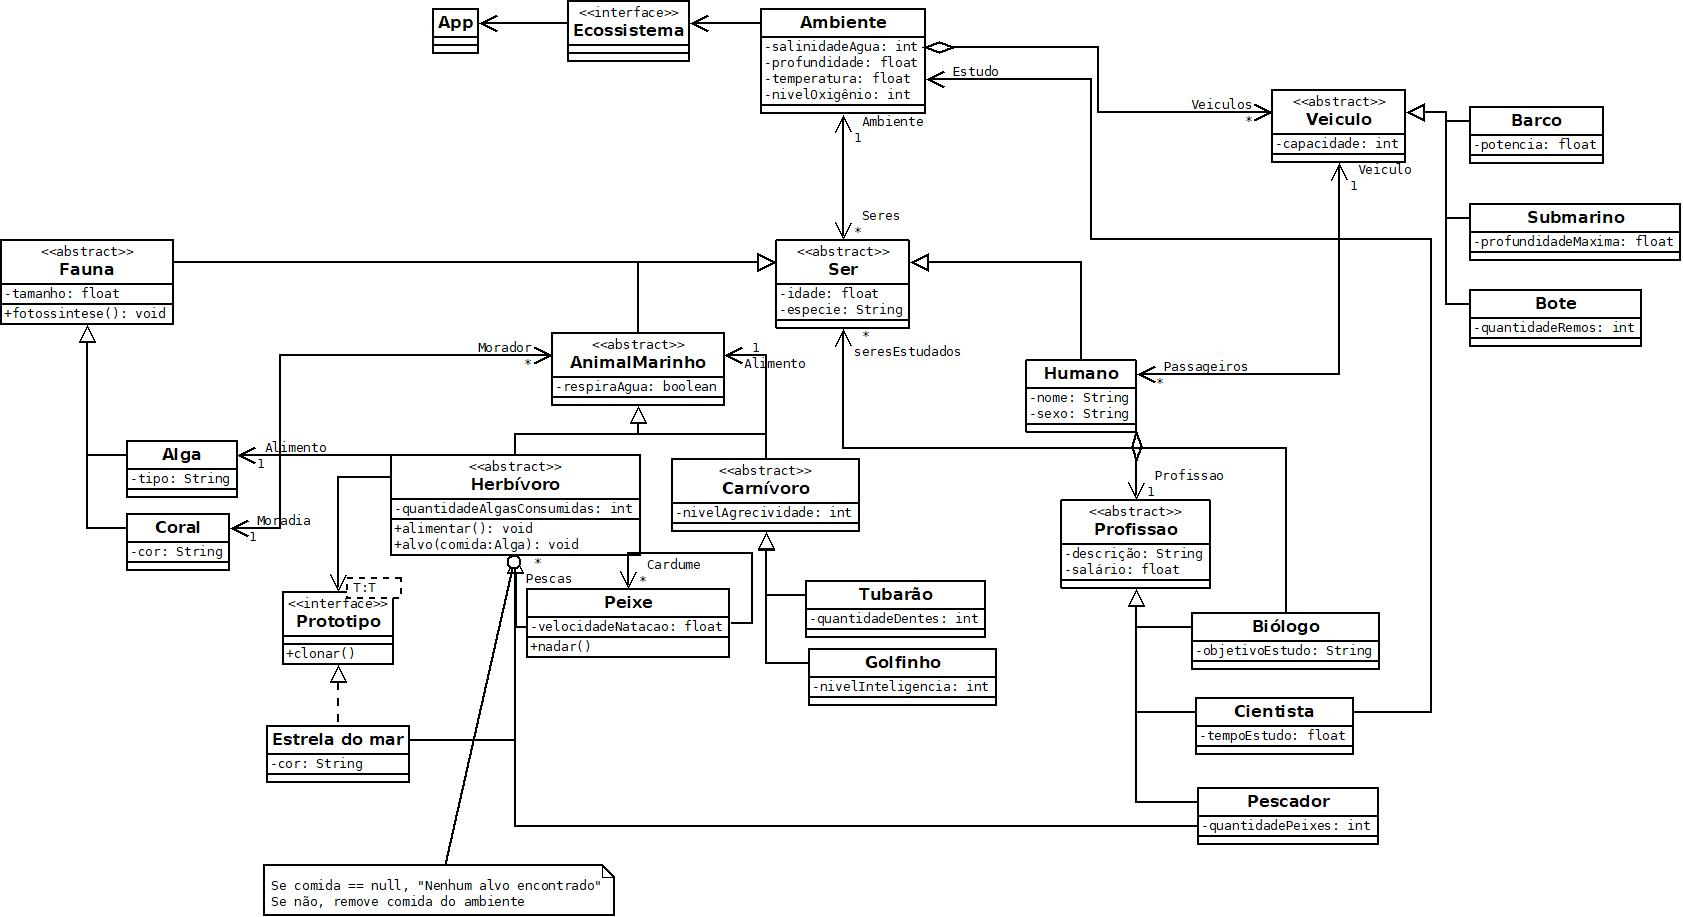
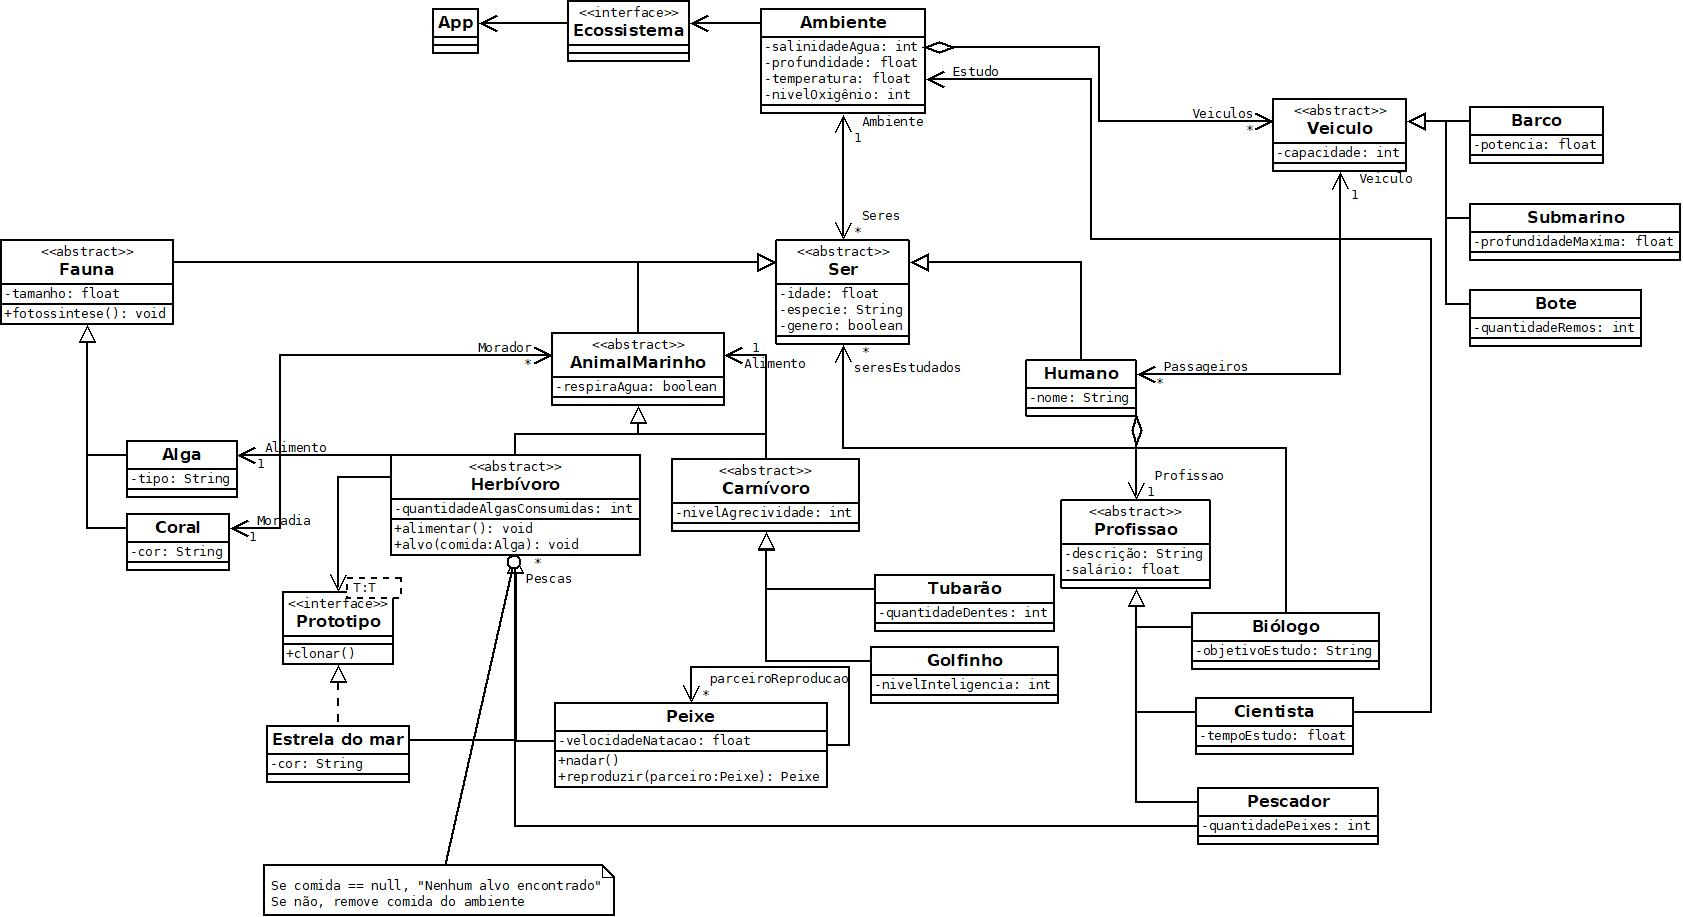
modificado Fish, Organism e Humam

diff --git a/src/main/java/br/edu/unifei/ecot12/marinelife/Fish.java b/src/main/java/br/edu/unifei/ecot12/marinelife/Fish.java
@@ -1,11 +1,20 @@
 package br.edu.unifei.ecot12.marinelife;
 
-import java.util.ArrayList;
-import java.util.List;
-
 public class Fish extends Herbivore{
     private float swimmingSpeed;
-    private List<Fish> school = new ArrayList<Fish>();
+    private Fish breedingPartner;
+
+    public Fish breed(Fish breedingPartner){
+        if(breedingPartner.isGender() != this.isGender()){
+            getEnvironment().setOxygenLevel(getEnvironment().getOxygenLevel() - 0.05);
+            System.out.println("THE BREED WAS A SUCCESS");
+            return new Fish();
+        }
+        else{
+            System.out.println("THE BREED FAILED");
+            return null;
+        }
+    }
 
     public void swim(){
         this.getEnvironment().setOxygenLevel(this.getEnvironment().getOxygenLevel()-0.005); //decreases the oxygen level of the environment
@@ -19,12 +28,12 @@ public class Fish extends Herbivore{
         this.swimmingSpeed = swimmingSpeed;
     }
 
-    public List<Fish> getSchool() {
-        return school;
+    public Fish getBreedingPartner() {
+        return breedingPartner;
     }
 
-    public void setSchool(List<Fish> school) {
-        this.school = school;
+    public void setBreedingPartner(Fish breedingPartner) {
+        this.breedingPartner = breedingPartner;
     }
-    
+
 }

diff --git a/src/main/java/br/edu/unifei/ecot12/marinelife/Vehicle.java b/src/main/java/br/edu/unifei/ecot12/marinelife/Vehicle.java
@@ -1,13 +1,25 @@
-package br.edu.unifei.ecot12.vidamarinha;
+package br.edu.unifei.ecot12.marinelife;
 
-public abstract class Veiculo{
-    private int capacidade;
+import java.util.ArrayList;
+import java.util.List;
 
-    public int getCapacidade() {
-        return capacidade;
+public abstract class Vehicle {
+    private int capacity;
+    private List<Human> passengers = new ArrayList<>();
+
+    public List<Human> getPassengers() {
+        return passengers;
     }
 
-    public void setCapacidade(int capacidade) {
-        this.capacidade = capacidade;
+    public void setPassengers(List<Human> passengers) {
+        this.passengers = passengers;
+    }
+
+    public int getCapacity() {
+        return capacity;
+    }
+
+    public void setCapacity(int capacity) {
+        this.capacity = capacity;
     }
 }

diff --git a/src/main/java/br/edu/unifei/ecot12/marinelife/Organism.java b/src/main/java/br/edu/unifei/ecot12/marinelife/Organism.java
@@ -3,6 +3,14 @@ package br.edu.unifei.ecot12.marinelife;
 public abstract class Organism {
     private float idade;
     private String especie;
+    private Environment environment;
+    private boolean gender; //gender == true, male. gender == false, female
+    public boolean isGender() {
+        return gender;
+    }
+    public void setGender(boolean gender) {
+        this.gender = gender;
+    }
 
     public float getIdade() {
         return idade;
@@ -15,5 +23,11 @@ public abstract class Organism {
     }
     public void setEspecie(String especie) {
         this.especie = especie;
+    }
+    public Environment getEnvironment() {
+        return environment;
+    }
+    public void setEnvironment(Environment environment) {
+        this.environment = environment;
     }
 }

diff --git a/src/main/java/br/edu/unifei/ecot12/marinelife/Human.java b/src/main/java/br/edu/unifei/ecot12/marinelife/Human.java
@@ -2,7 +2,6 @@ package br.edu.unifei.ecot12.marinelife;
 
 public class Human extends Organism {
     private String name;
-    private String gender;
     private Vehicle vehicle;
     private Profession profession;
 
@@ -20,14 +19,6 @@ public class Human extends Organism {
 
     public void setName(String name) {
         this.name = name;
-    }
-
-    public String getGender() {
-        return gender;
-    }
-
-    public void setGender(String gender) {
-        this.gender = gender;
     }
 
     public Vehicle getVehicle() {
